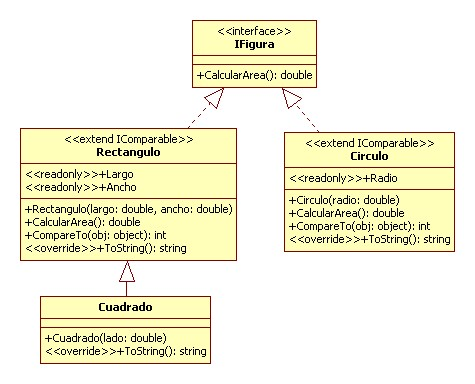
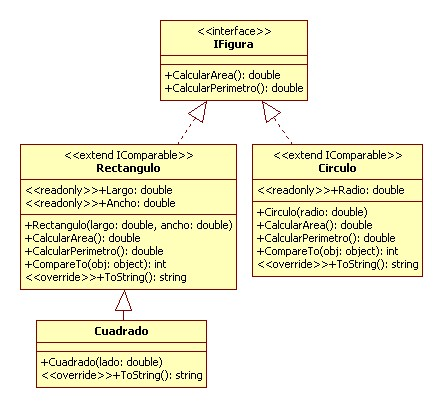
.

Changed region(s): [[0.0293, 0.0312, 0.9684, 0.9688]]

diff --git a/Actividad4_parte1_figuras/Ejercicio3_interfaz_IComparable/FormPrincipal.Designer.cs b/Actividad4_parte1_figuras/Ejercicio3_interfaz_IComparable/FormPrincipal.Designer.cs
@@ -29,13 +29,13 @@
         private void InitializeComponent()
         {
             this.btnPrueba = new System.Windows.Forms.Button();
-            this.lbResultados = new System.Windows.Forms.ListBox();
+            this.lbxVer = new System.Windows.Forms.ListBox();
             this.SuspendLayout();
             // 
             // btnPrueba
             // 
             this.btnPrueba.Font = new System.Drawing.Font("Microsoft Sans Serif", 12F, System.Drawing.FontStyle.Regular, System.Drawing.GraphicsUnit.Point, ((byte)(0)));
-            this.btnPrueba.Location = new System.Drawing.Point(236, 205);
+            this.btnPrueba.Location = new System.Drawing.Point(480, 227);
             this.btnPrueba.Margin = new System.Windows.Forms.Padding(4, 5, 4, 5);
             this.btnPrueba.Name = "btnPrueba";
             this.btnPrueba.Size = new System.Drawing.Size(79, 60);
@@ -44,23 +44,23 @@
             this.btnPrueba.UseVisualStyleBackColor = true;
             this.btnPrueba.Click += new System.EventHandler(this.btnPrueba_Click);
             // 
-            // lbResultados
+            // lbxVer
             // 
-            this.lbResultados.Font = new System.Drawing.Font("Courier New", 9.75F, System.Drawing.FontStyle.Regular, System.Drawing.GraphicsUnit.Point, ((byte)(0)));
-            this.lbResultados.FormattingEnabled = true;
-            this.lbResultados.ItemHeight = 16;
-            this.lbResultados.Location = new System.Drawing.Point(18, 18);
-            this.lbResultados.Margin = new System.Windows.Forms.Padding(4, 5, 4, 5);
-            this.lbResultados.Name = "lbResultados";
-            this.lbResultados.Size = new System.Drawing.Size(210, 452);
-            this.lbResultados.TabIndex = 1;
+            this.lbxVer.Font = new System.Drawing.Font("Courier New", 12F, System.Drawing.FontStyle.Regular, System.Drawing.GraphicsUnit.Point, ((byte)(0)));
+            this.lbxVer.FormattingEnabled = true;
+            this.lbxVer.ItemHeight = 18;
+            this.lbxVer.Location = new System.Drawing.Point(13, 14);
+            this.lbxVer.Margin = new System.Windows.Forms.Padding(4, 5, 4, 5);
+            this.lbxVer.Name = "lbxVer";
+            this.lbxVer.Size = new System.Drawing.Size(459, 490);
+            this.lbxVer.TabIndex = 1;
             // 
             // FormPrincipal
             // 
             this.AutoScaleDimensions = new System.Drawing.SizeF(9F, 20F);
             this.AutoScaleMode = System.Windows.Forms.AutoScaleMode.Font;
-            this.ClientSize = new System.Drawing.Size(321, 479);
-            this.Controls.Add(this.lbResultados);
+            this.ClientSize = new System.Drawing.Size(572, 521);
+            this.Controls.Add(this.lbxVer);
             this.Controls.Add(this.btnPrueba);
             this.Font = new System.Drawing.Font("Microsoft Sans Serif", 12F, System.Drawing.FontStyle.Regular, System.Drawing.GraphicsUnit.Point, ((byte)(0)));
             this.FormBorderStyle = System.Windows.Forms.FormBorderStyle.FixedSingle;
@@ -75,7 +75,7 @@
         #endregion
 
         private System.Windows.Forms.Button btnPrueba;
-        private System.Windows.Forms.ListBox lbResultados;
+        private System.Windows.Forms.ListBox lbxVer;
     }
 }
 

diff --git a/Actividad4_parte1_figuras/Ejercicio4_interfaz_e_IComparable/FormPrincipal.Designer.cs b/Actividad4_parte1_figuras/Ejercicio4_interfaz_e_IComparable/FormPrincipal.Designer.cs
@@ -29,36 +29,37 @@
         private void InitializeComponent()
         {
             this.btnPrueba = new System.Windows.Forms.Button();
-            this.lbResultados = new System.Windows.Forms.ListBox();
+            this.lbxVer = new System.Windows.Forms.ListBox();
             this.SuspendLayout();
             // 
             // btnPrueba
             // 
-            this.btnPrueba.Location = new System.Drawing.Point(321, 217);
+            this.btnPrueba.Location = new System.Drawing.Point(440, 217);
             this.btnPrueba.Margin = new System.Windows.Forms.Padding(4, 5, 4, 5);
             this.btnPrueba.Name = "btnPrueba";
-            this.btnPrueba.Size = new System.Drawing.Size(112, 35);
+            this.btnPrueba.Size = new System.Drawing.Size(112, 62);
             this.btnPrueba.TabIndex = 0;
             this.btnPrueba.Text = "Prueba";
             this.btnPrueba.UseVisualStyleBackColor = true;
             this.btnPrueba.Click += new System.EventHandler(this.btnPrueba_Click);
             // 
-            // lbResultados
+            // lbxVer
             // 
-            this.lbResultados.FormattingEnabled = true;
-            this.lbResultados.ItemHeight = 20;
-            this.lbResultados.Location = new System.Drawing.Point(13, 14);
-            this.lbResultados.Margin = new System.Windows.Forms.Padding(4, 5, 4, 5);
-            this.lbResultados.Name = "lbResultados";
-            this.lbResultados.Size = new System.Drawing.Size(288, 504);
-            this.lbResultados.TabIndex = 1;
+            this.lbxVer.Font = new System.Drawing.Font("Courier New", 12F, System.Drawing.FontStyle.Regular, System.Drawing.GraphicsUnit.Point, ((byte)(0)));
+            this.lbxVer.FormattingEnabled = true;
+            this.lbxVer.ItemHeight = 18;
+            this.lbxVer.Location = new System.Drawing.Point(13, 14);
+            this.lbxVer.Margin = new System.Windows.Forms.Padding(4, 5, 4, 5);
+            this.lbxVer.Name = "lbxVer";
+            this.lbxVer.Size = new System.Drawing.Size(419, 490);
+            this.lbxVer.TabIndex = 1;
             // 
             // FormPrincipal
             // 
             this.AutoScaleDimensions = new System.Drawing.SizeF(9F, 20F);
             this.AutoScaleMode = System.Windows.Forms.AutoScaleMode.Font;
-            this.ClientSize = new System.Drawing.Size(446, 528);
-            this.Controls.Add(this.lbResultados);
+            this.ClientSize = new System.Drawing.Size(565, 528);
+            this.Controls.Add(this.lbxVer);
             this.Controls.Add(this.btnPrueba);
             this.Font = new System.Drawing.Font("Microsoft Sans Serif", 12F, System.Drawing.FontStyle.Regular, System.Drawing.GraphicsUnit.Point, ((byte)(0)));
             this.Margin = new System.Windows.Forms.Padding(4, 5, 4, 5);
@@ -71,7 +72,7 @@
         #endregion
 
         private System.Windows.Forms.Button btnPrueba;
-        private System.Windows.Forms.ListBox lbResultados;
+        private System.Windows.Forms.ListBox lbxVer;
     }
 }
 

diff --git a/Actividad4_parte1_figuras/Ejercicio2_clase_abstracta/FormPrincipal.Designer.cs b/Actividad4_parte1_figuras/Ejercicio2_clase_abstracta/FormPrincipal.Designer.cs
@@ -29,12 +29,12 @@
         private void InitializeComponent()
         {
             this.btnPrueba = new System.Windows.Forms.Button();
-            this.listBox1 = new System.Windows.Forms.ListBox();
+            this.lbxVer = new System.Windows.Forms.ListBox();
             this.SuspendLayout();
             // 
             // btnPrueba
             // 
-            this.btnPrueba.Location = new System.Drawing.Point(252, 118);
+            this.btnPrueba.Location = new System.Drawing.Point(355, 101);
             this.btnPrueba.Margin = new System.Windows.Forms.Padding(4, 5, 4, 5);
             this.btnPrueba.Name = "btnPrueba";
             this.btnPrueba.Size = new System.Drawing.Size(112, 35);
@@ -43,24 +43,26 @@
             this.btnPrueba.UseVisualStyleBackColor = true;
             this.btnPrueba.Click += new System.EventHandler(this.button1_Click);
             // 
-            // listBox1
+            // lbxVer
             // 
-            this.listBox1.FormattingEnabled = true;
-            this.listBox1.ItemHeight = 20;
-            this.listBox1.Location = new System.Drawing.Point(30, 30);
-            this.listBox1.Margin = new System.Windows.Forms.Padding(4, 5, 4, 5);
-            this.listBox1.Name = "listBox1";
-            this.listBox1.Size = new System.Drawing.Size(203, 244);
-            this.listBox1.TabIndex = 1;
+            this.lbxVer.Font = new System.Drawing.Font("Courier New", 12F, System.Drawing.FontStyle.Regular, System.Drawing.GraphicsUnit.Point, ((byte)(0)));
+            this.lbxVer.FormattingEnabled = true;
+            this.lbxVer.ItemHeight = 18;
+            this.lbxVer.Location = new System.Drawing.Point(13, 14);
+            this.lbxVer.Margin = new System.Windows.Forms.Padding(4, 5, 4, 5);
+            this.lbxVer.Name = "lbxVer";
+            this.lbxVer.Size = new System.Drawing.Size(317, 238);
+            this.lbxVer.TabIndex = 1;
             // 
             // FormPrincipal
             // 
             this.AutoScaleDimensions = new System.Drawing.SizeF(9F, 20F);
             this.AutoScaleMode = System.Windows.Forms.AutoScaleMode.Font;
-            this.ClientSize = new System.Drawing.Size(382, 308);
-            this.Controls.Add(this.listBox1);
+            this.ClientSize = new System.Drawing.Size(480, 257);
+            this.Controls.Add(this.lbxVer);
             this.Controls.Add(this.btnPrueba);
             this.Font = new System.Drawing.Font("Microsoft Sans Serif", 12F, System.Drawing.FontStyle.Regular, System.Drawing.GraphicsUnit.Point, ((byte)(0)));
+            this.FormBorderStyle = System.Windows.Forms.FormBorderStyle.FixedSingle;
             this.Margin = new System.Windows.Forms.Padding(4, 5, 4, 5);
             this.Name = "FormPrincipal";
             this.Text = "Ejercico 2";
@@ -71,7 +73,7 @@
         #endregion
 
         private System.Windows.Forms.Button btnPrueba;
-        private System.Windows.Forms.ListBox listBox1;
+        private System.Windows.Forms.ListBox lbxVer;
     }
 }
 

diff --git a/Actividad4_parte1_figuras/Ejercicio4_interfaz_e_IComparable/FormPrincipal.cs b/Actividad4_parte1_figuras/Ejercicio4_interfaz_e_IComparable/FormPrincipal.cs
@@ -16,24 +16,24 @@ namespace Ejercicio4
         {
             ArrayList misFiguras =new ArrayList();
             misFiguras.AddRange( new IFigura[]{
-                           new Circulo(8), new Circulo(3), new Circulo(4),
-                           new Rectangulo(30,10), new Rectangulo(4,8), new Rectangulo(12,10),
-                           new Cuadrado(5), new Cuadrado(4), new Cuadrado(12)
-                               });
+                new Circulo(8), new Circulo(3), new Circulo(4),
+                new Rectangulo(30,10), new Rectangulo(4,8), new Rectangulo(12,10),
+                new Cuadrado(5), new Cuadrado(4), new Cuadrado(12)
+            });
 
-            lbResultados.Items.Add("lista sin ordenar.");
+            lbxVer.Items.Add("Lista sin ordenar.");
+            lbxVer.Items.Add($"{"Figura",10:f2} {"Área",10:f2} {"Perímetro",10:f2}");
             foreach (IFigura fig in misFiguras)
             {
-                lbResultados.Items.Add("   "+fig.ToString() + " " +
-                                            fig.CalcularArea().ToString("0.00"));
+                lbxVer.Items.Add($"{fig.ToString(),10:f2} {fig.CalcularArea(),10:f2}  {fig.CalcularPerimetro(),10:f2}");
             }
 
             misFiguras.Sort();
-            lbResultados.Items.Add("lista ordenada por area.");
+            lbxVer.Items.Add(" ");
+            lbxVer.Items.Add("Lista ordenada por area.");
             foreach (IFigura fig in misFiguras)
             {
-                lbResultados.Items.Add("   "+fig.ToString() + ": " +
-                                        fig.CalcularArea().ToString("0.00"));
+                lbxVer.Items.Add($"{fig.ToString(),10:f2} {fig.CalcularArea(),10:f2}  {fig.CalcularPerimetro(),10:f2}");
             }
         }
     }

diff --git a/Actividad4_parte1_figuras/Ejercicio3_interfaz_IComparable/FormPrincipal.cs b/Actividad4_parte1_figuras/Ejercicio3_interfaz_IComparable/FormPrincipal.cs
@@ -19,21 +19,22 @@ namespace Ejercicio3
                            new Circulo(8), new Circulo(3), new Circulo(4),
                            new Rectangulo(30,10), new Rectangulo(4,8), new Rectangulo(12,10),
                            new Cuadrado(5), new Cuadrado(4), new Cuadrado(12)
-                               });
+            });
 
-            lbResultados.Items.Add("Lista sin ordenar.");
+            lbxVer.Items.Add("Lista sin ordenar.");
+            lbxVer.Items.Add($"{"Figura",10:f2} {"Área",10:f2} {"Perímetro",10:f2}");
             foreach (IFigura fig in misFiguras)
             {
-                lbResultados.Items.Add(fig);
+                lbxVer.Items.Add(fig);
             }
 
-            lbResultados.Items.Add("");
+            lbxVer.Items.Add("");
 
             misFiguras.Sort();
-            lbResultados.Items.Add("Lista ordenada por área.");
+            lbxVer.Items.Add("Lista ordenada por área.");
             foreach (IFigura fig in misFiguras)
             {
-                lbResultados.Items.Add(fig);
+                lbxVer.Items.Add(fig);
             }
         }
     }

diff --git a/Actividad4_parte1_figuras/Ejercicio1_interfaz/FormPrincipal.Designer.cs b/Actividad4_parte1_figuras/Ejercicio1_interfaz/FormPrincipal.Designer.cs
@@ -57,7 +57,7 @@
             // 
             this.AutoScaleDimensions = new System.Drawing.SizeF(9F, 20F);
             this.AutoScaleMode = System.Windows.Forms.AutoScaleMode.Font;
-            this.ClientSize = new System.Drawing.Size(489, 293);
+            this.ClientSize = new System.Drawing.Size(473, 293);
             this.Controls.Add(this.lbxVer);
             this.Controls.Add(this.btnPrueba);
             this.Font = new System.Drawing.Font("Microsoft Sans Serif", 12F, System.Drawing.FontStyle.Regular, System.Drawing.GraphicsUnit.Point, ((byte)(0)));

diff --git a/Actividad4_parte1_figuras/Ejercicio2_clase_abstracta/Models/Rectangulo.cs b/Actividad4_parte1_figuras/Ejercicio2_clase_abstracta/Models/Rectangulo.cs
@@ -17,10 +17,13 @@ namespace Ejercicio2.Models
         {
             return Largo*Ancho;
         }
-
-        public override string ToString()
+        override public double CalcularPerimetro()
         {
-            return $"{"Rectángulo",10} {CalcularArea().ToString("0.00")}";
+            return 2 * (Largo + Ancho);
+        }
+        override public string ToString()
+        {
+            return $"Rectangulo - {CalcularArea():f2} - {CalcularPerimetro():f2}";
         }
     }
 }

diff --git a/Actividad4_parte1_figuras/Ejercicio3_interfaz_IComparable/Models/Circulo.cs b/Actividad4_parte1_figuras/Ejercicio3_interfaz_IComparable/Models/Circulo.cs
@@ -16,9 +16,14 @@ namespace Ejercicio3.Models
             return Math.PI * Math.Pow(Radio, 2);
         }
 
+        public double CalcularPerimetro()
+        {
+            return 2 * Math.PI * Radio;
+        }
+
         public override string ToString()
         {
-            return $"{"Circulo",15} {CalcularArea().ToString("0.00")}";
+            return $"{"Circulo",15} - {CalcularArea(),10:f2} - {CalcularPerimetro(),10:f2}";
         }
 
         public int CompareTo(object obj) 

diff --git a/Actividad4_parte1_figuras/Ejercicio2_clase_abstracta/FormPrincipal.cs b/Actividad4_parte1_figuras/Ejercicio2_clase_abstracta/FormPrincipal.cs
@@ -19,9 +19,11 @@ namespace Ejercicio2
                                            new Cuadrado(5),
                                             new Rectangulo(5,1)
                                                };
+
+            lbxVer.Items.Add($"{"Figura",10:f2} {"Área",10:f2} {"Perímetro",10:f2}");
             foreach (Figura fig in misFiguras)
             {
-                listBox1.Items.Add(fig);
+                lbxVer.Items.Add(fig);
             }
         }
     }

diff --git a/Actividad4_parte1_figuras/Ejercicio3_interfaz_IComparable/Models/Rectangulo.cs b/Actividad4_parte1_figuras/Ejercicio3_interfaz_IComparable/Models/Rectangulo.cs
@@ -18,9 +18,14 @@ namespace Ejercicio3.Models
             return Largo*Ancho;
         }
 
+        public double CalcularPerimetro()
+        {
+            return 2 * (Largo + Ancho);
+        }
+
         public override string ToString()
         {
-            return $"{"Rectángulo",15} {CalcularArea().ToString("0.00")}";
+            return $"{"Rectangulo",15} - {CalcularArea(),10:f2} - {CalcularPerimetro(),10:f2}";
         }
 
         public int CompareTo(object obj)

diff --git a/Actividad4_parte1_figuras/Ejercicio2_clase_abstracta/Models/Circulo.cs b/Actividad4_parte1_figuras/Ejercicio2_clase_abstracta/Models/Circulo.cs
@@ -16,9 +16,14 @@ namespace Ejercicio2.Models
             return Math.PI * Math.Pow(Radio, 2);
         }
 
+        override public double CalcularPerimetro()
+        {
+            return 2 * Math.PI * Radio;
+        }
+
         public override string ToString()
         {
-            return $"{"Circulo",10} {CalcularArea().ToString("0.00")}";
+            return $"Circulo - {CalcularArea():f2} - {CalcularPerimetro():f2}";
         }
     }
 }

diff --git a/Actividad4_parte1_figuras/Ejercicio1_interfaz/Models/Rectangulo.cs b/Actividad4_parte1_figuras/Ejercicio1_interfaz/Models/Rectangulo.cs
@@ -16,10 +16,16 @@ namespace Ejercicio1.Models
         {
             return Largo*Ancho;
         }
+        public double CalcularPerimetro()
+        {
+            return 2 * (Largo + Ancho);
+        }
 
         public override string ToString()
         {
-            return $"Rectángulo {CalcularArea().ToString("0.00")}";
+            return $"Rectangulo - {CalcularArea():f2} - {CalcularPerimetro():f2}";
         }
+
+       
     }
 }
